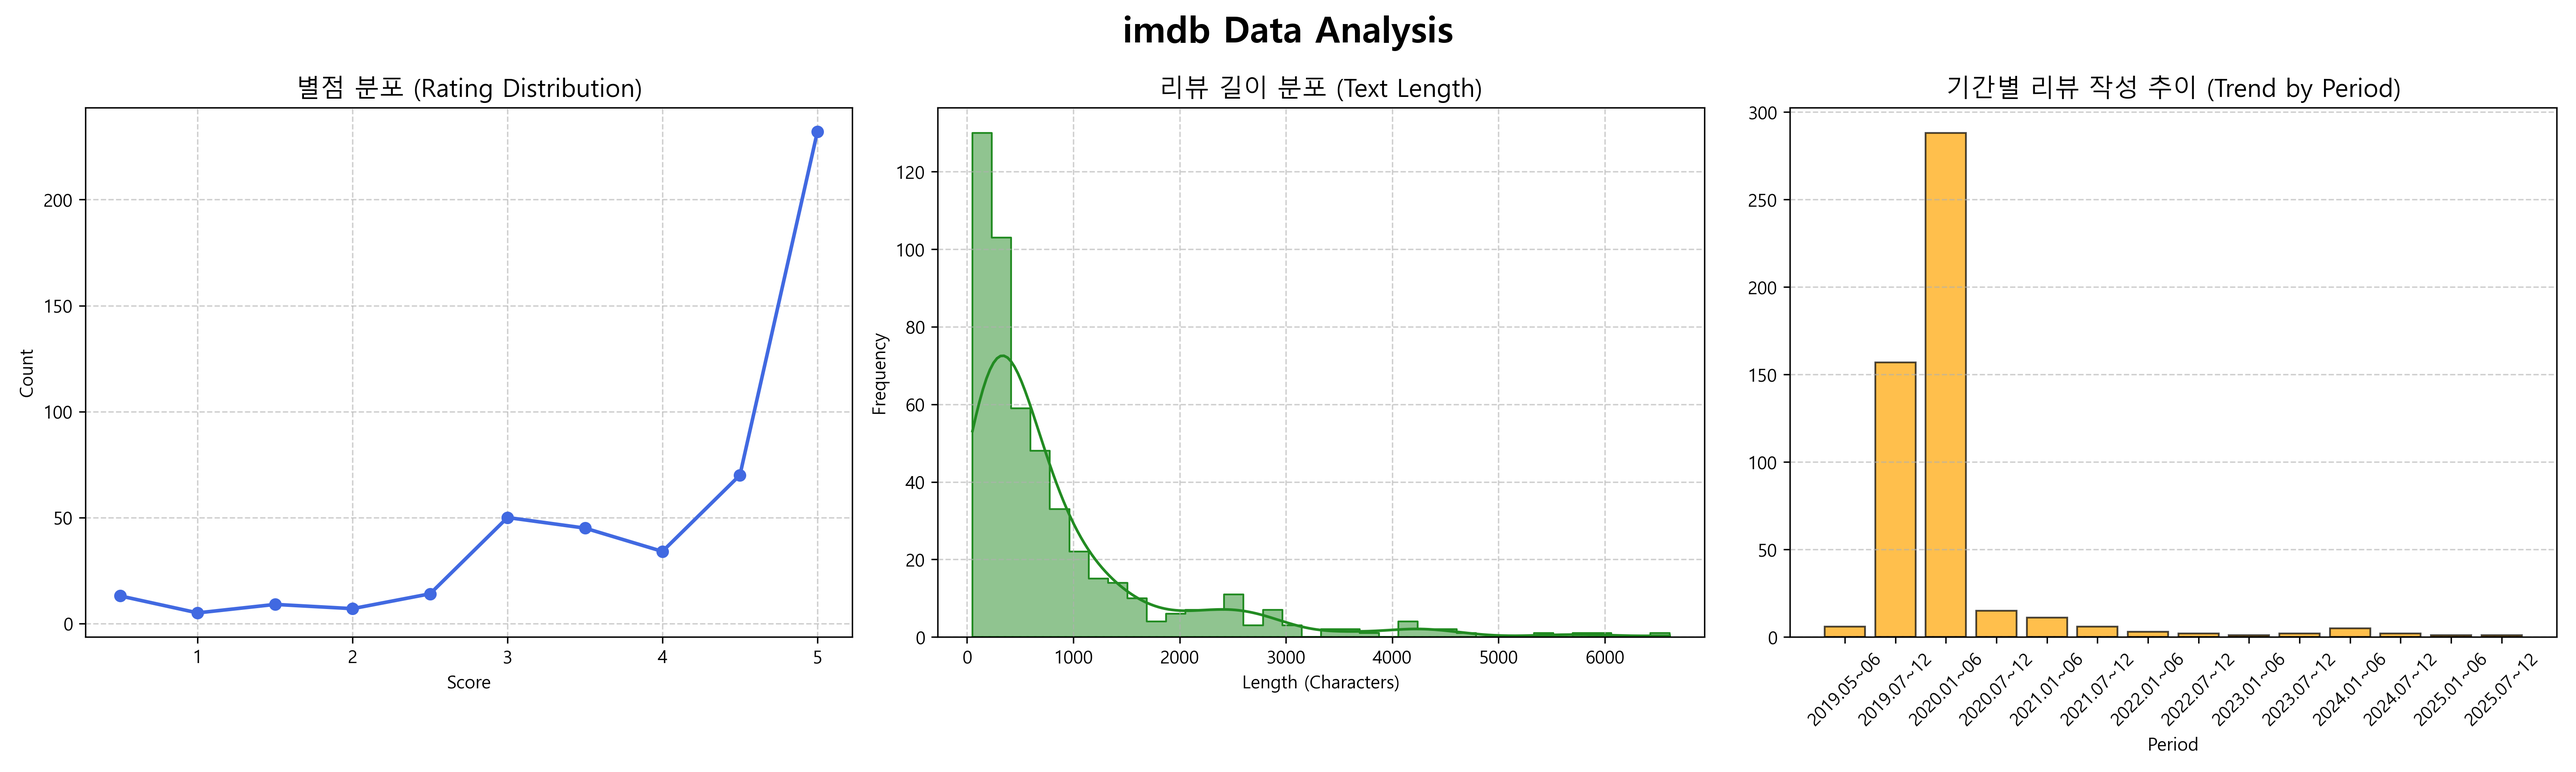
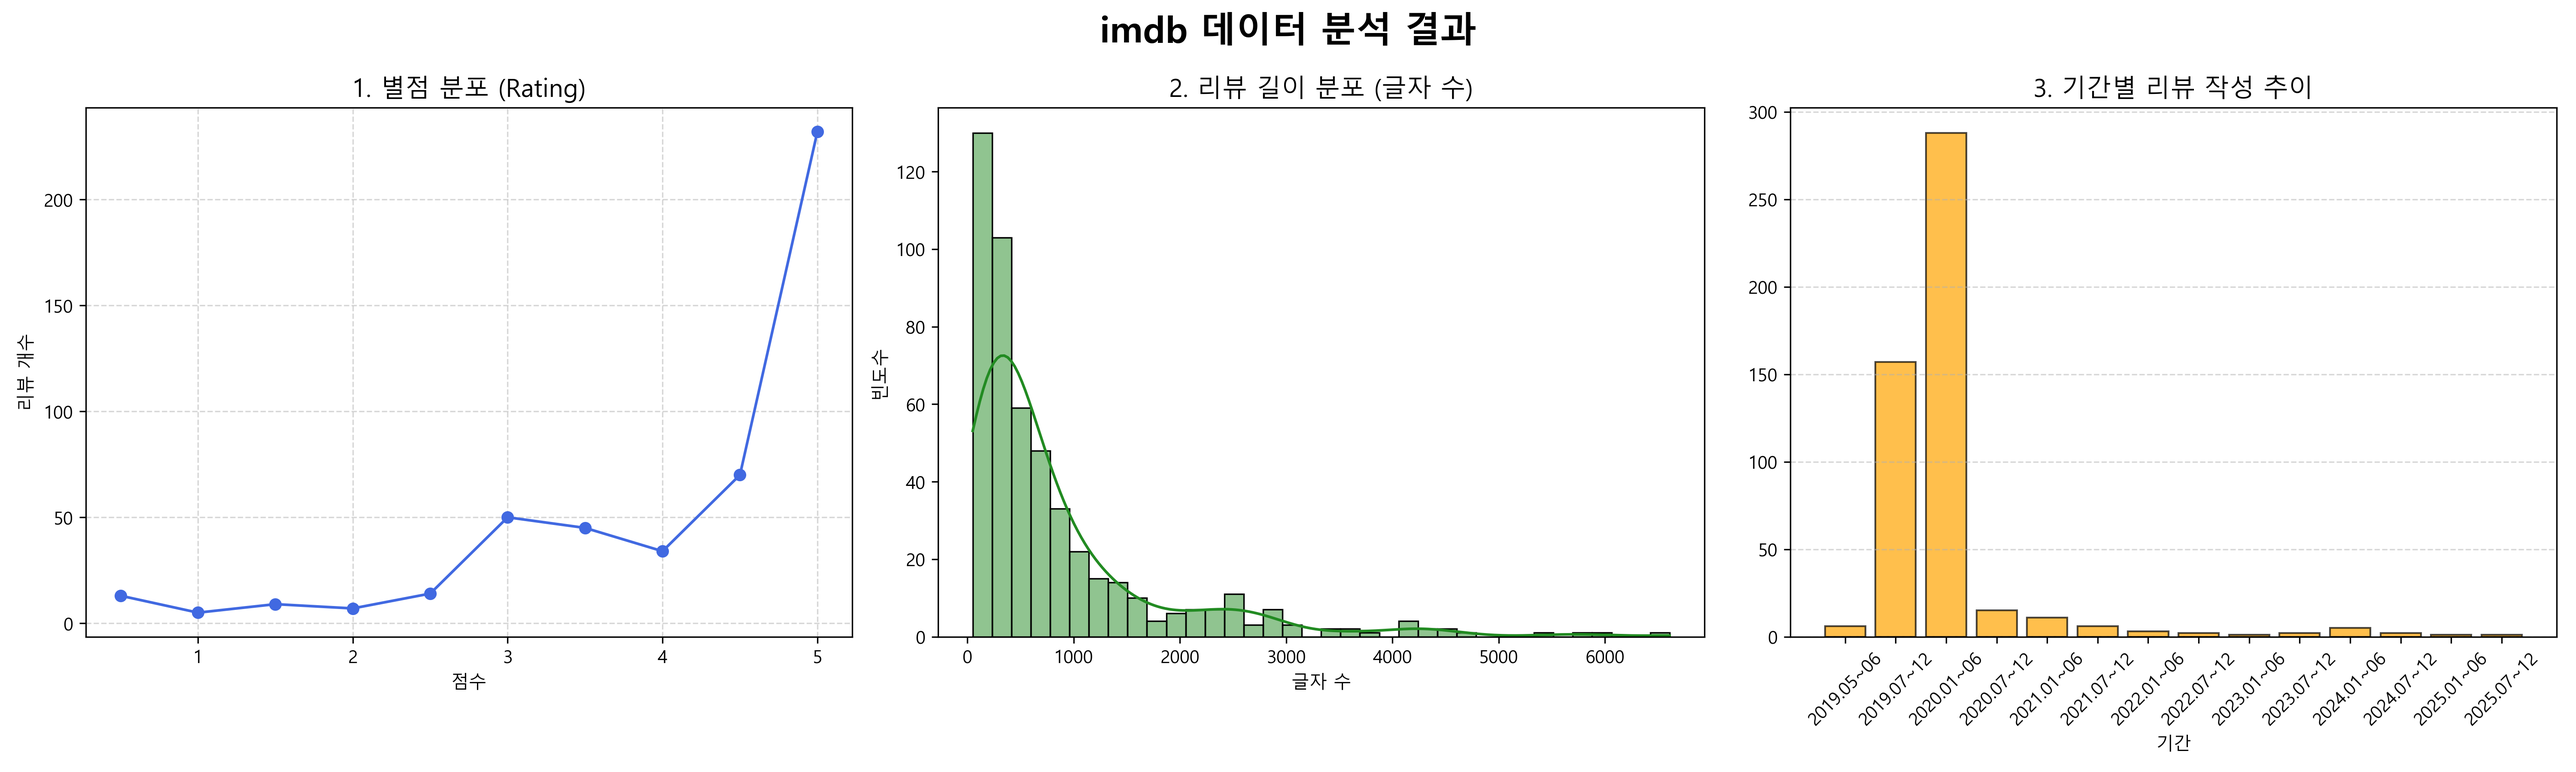
viz_comparison file added

diff --git a/review_analysis/preprocessing/visualizer.py b/review_analysis/preprocessing/visualizer.py
@@ -3,169 +3,182 @@ import matplotlib.pyplot as plt
 import seaborn as sns
 import os
 import numpy as np
-
-# 한글 폰트 설정 (Mac: AppleGothic, Windows: Malgun Gothic)
 import platform
-if platform.system() == 'Darwin':
+
+# -----------------------------
+# 한글 폰트 설정
+# -----------------------------
+if platform.system() == 'Darwin': # 맥
     plt.rc('font', family='AppleGothic')
-else:
+else: # 윈도우
     plt.rc('font', family='Malgun Gothic')
 plt.rcParams['axes.unicode_minus'] = False
 
 def get_period(date_obj):
-    """
-    기간 분류 로직:
-    - 2019.05~06 (개봉 초기)
-    - 그 외에는 상반기(01~06) / 하반기(07~12)로 분류
-    """
+    """기간 분류 로직"""
     if pd.isnull(date_obj):
         return "Unknown"
-        
+    
     y = date_obj.year
     m = date_obj.month
     
-    # 영화 개봉일(2019.05.30) 고려
     if y == 2019:
-        if m < 5:
-            return "2019.Pre" # 개봉 전
-        elif 5 <= m <= 6:
-            return "2019.05~06"
-        else:
-            return "2019.07~12"
+        if m < 5: return "2019.Pre"
+        elif 5 <= m <= 6: return "2019.05~06"
+        else: return "2019.07~12"
     else:
-        if m <= 6:
-            return f"{y}.01~06"
-        else:
-            return f"{y}.07~12"
+        if m <= 6: return f"{y}.01~06"
+        else: return f"{y}.07~12"
 
-def create_and_save_plot(df, site_name, output_dir):
-    """데이터프레임을 받아 그래프를 그리고 저장합니다."""
+def create_individual_plot(df, site_name, output_dir):
+    """[개별] 사이트별 시각화 (1x3 레이아웃)"""
     
-    # 캔버스 설정 (1행 3열)
+    # 다시 1행 3열로 변경
     fig, axes = plt.subplots(1, 3, figsize=(20, 6))
-    fig.suptitle(f'{site_name} Data Analysis', fontsize=20, fontweight='bold')
+    fig.suptitle(f'{site_name} 데이터 분석 결과', fontsize=20, fontweight='bold')
 
-    # -----------------------------
-    # 1. 별점 분포 (꺾은선 그래프)
-    # -----------------------------
+    # 1. 별점 분포 (Line)
     try:
-        # 별점 빈도수 계산 및 정렬
         rating_counts = df['rating'].value_counts().sort_index()
-        
-        # 꺾은선 그래프
-        axes[0].plot(rating_counts.index, rating_counts.values, 
-                    marker='o', linestyle='-', color='royalblue', linewidth=2)
-        
-        # 디자인
-        axes[0].set_title('별점 분포 (Rating Distribution)', fontsize=14)
-        axes[0].set_xlabel('Score')
-        axes[0].set_ylabel('Count')
-        axes[0].grid(True, linestyle='--', alpha=0.6)
-    except Exception as e:
-        print(f"[{site_name}] 별점 그래프 에러: {e}")
+        axes[0].plot(rating_counts.index, rating_counts.values, marker='o', linestyle='-', color='royalblue')
+        axes[0].set_title('1. 별점 분포 (Rating)', fontsize=14)
+        axes[0].set_xlabel('점수')
+        axes[0].set_ylabel('리뷰 개수')
+        axes[0].grid(True, linestyle='--', alpha=0.5)
+    except: axes[0].set_title('별점 데이터 없음')
 
-    # -----------------------------
-    # 2. 리뷰 길이 분포 (히스토그램 + KDE)
-    # -----------------------------
+    # 2. 리뷰 길이 분포 (Histogram + KDE)
     try:
-        # 리뷰 길이 계산 (공백 포함)
         doc_lens = df['content'].astype(str).apply(len)
-        
-        # 히스토그램 & KDE
-        sns.histplot(doc_lens, kde=True, ax=axes[1], color='forestgreen', element="step")
-        
-        # 디자인
-        axes[1].set_title('리뷰 길이 분포 (Text Length)', fontsize=14)
-        axes[1].set_xlabel('Length (Characters)')
-        axes[1].set_ylabel('Frequency')
-        axes[1].grid(True, linestyle='--', alpha=0.6)
-    except Exception as e:
-        print(f"[{site_name}] 길이 그래프 에러: {e}")
+        sns.histplot(doc_lens, kde=True, ax=axes[1], color='forestgreen')
+        axes[1].set_title('2. 리뷰 길이 분포 (글자 수)', fontsize=14)
+        axes[1].set_xlabel('글자 수')
+        axes[1].set_ylabel('빈도수')
+    except: axes[1].set_title('길이 데이터 없음')
 
-    # -----------------------------
-    # 3. 날짜별 리뷰 수 (기간별 막대 그래프)
-    # -----------------------------
+    # 3. 기간별 추이 (Bar)
     try:
-        # 날짜 변환 (에러 발생 시 NaT 처리)
-        # 여러 포맷 대응을 위해 errors='coerce' 사용
         if not np.issubdtype(df['date'].dtype, np.datetime64):
             df['date'] = pd.to_datetime(df['date'], format='%Y.%m.%d', errors='coerce')
-        
-        # 기간(Period) 파생변수 생성
         df['period'] = df['date'].apply(get_period)
-        
-        # 기간별 개수 집계 및 정렬
-        # Unknown이나 Pre 기간은 제외하고 싶으면 여기서 필터링 가능
-        period_counts = df['period'].value_counts()
-        
-        # 정렬: 문자열 기준 정렬 (2019... -> 2020... 순서)
-        sorted_periods = sorted(period_counts.index)
-        sorted_counts = [period_counts[p] for p in sorted_periods]
-        
-        # 막대 그래프
-        rects = axes[2].bar(sorted_periods, sorted_counts, color='orange', edgecolor='black', alpha=0.7)
-        
-        # 디자인
-        axes[2].set_title('기간별 리뷰 작성 추이 (Trend by Period)', fontsize=14)
-        axes[2].set_xlabel('Period')
-        axes[2].tick_params(axis='x', rotation=45) # X축 라벨 회전
-        axes[2].grid(axis='y', linestyle='--', alpha=0.6)
-        
-    except Exception as e:
-        print(f"[{site_name}] 날짜 그래프 에러: {e}")
+        period_counts = df['period'].value_counts().sort_index()
+        axes[2].bar(period_counts.index, period_counts.values, color='orange', alpha=0.7, edgecolor='black')
+        axes[2].set_title('3. 기간별 리뷰 작성 추이', fontsize=14)
+        axes[2].set_xlabel('기간')
+        axes[2].tick_params(axis='x', rotation=45)
+        axes[2].grid(axis='y', linestyle='--', alpha=0.5)
+    except: axes[2].set_title('기간 데이터 없음')
 
-    # -----------------------------
-    # 저장
-    # -----------------------------
     plt.tight_layout()
+    if not os.path.exists(output_dir): os.makedirs(output_dir)
+    plt.savefig(os.path.join(output_dir, f"viz_{site_name}.png"), dpi=300)
+    plt.close()
+
+def create_comparison_plot(data_dict, output_dir):
+    """[통합] 3개 사이트 비교 시각화 (1x3 레이아웃)"""
+    print("\n비교 분석 그래프 생성 중... (Generating comparison plot)")
     
-    # plots 폴더가 없으면 생성
-    if not os.path.exists(output_dir):
-        os.makedirs(output_dir)
-        
-    save_path = os.path.join(output_dir, f"viz_{site_name}.png")
-    plt.savefig(save_path, dpi=300) # 고화질 저장
-    print(f"Saved plot to: {save_path}")
+    # 다시 1행 3열로 변경
+    fig, axes = plt.subplots(1, 3, figsize=(20, 6))
+    fig.suptitle('사이트별 비교 분석 (IMDb vs Metacritic vs RottenTomatoes)', fontsize=20, fontweight='bold')
     
-    plt.close() # 메모리 해제
+    colors = {'imdb': 'red', 'metacritic': 'blue', 'rottentomato': 'green'}
+    
+    # 1. 별점 분포 비교 (KDE)
+    axes[0].set_title('1. 별점 분포 비교 (밀도)', fontsize=14)
+    for site, df in data_dict.items():
+        try:
+            sns.kdeplot(data=df, x='rating', label=site, ax=axes[0], 
+                        color=colors.get(site, 'black'), linewidth=2, fill=True, alpha=0.1)
+        except: pass
+    axes[0].set_xlabel('점수')
+    axes[0].legend()
+    axes[0].grid(True, linestyle='--', alpha=0.5)
+
+    # 2. 리뷰 길이 분포 비교 (KDE)
+    axes[1].set_title('2. 리뷰 길이 분포 비교 (밀도)', fontsize=14)
+    for site, df in data_dict.items():
+        try:
+            doc_lens = df['content'].astype(str).apply(len)
+            sns.kdeplot(x=doc_lens, label=site, ax=axes[1], 
+                        color=colors.get(site, 'black'), linewidth=2)
+        except: pass
+    axes[1].set_xlabel('글자 수')
+    axes[1].set_xlim(0, 3000)
+    axes[1].legend()
+    axes[1].grid(True, linestyle='--', alpha=0.5)
+
+    # 3. 기간별 추이 비교 (Line)
+    axes[2].set_title('3. 기간별 추이 비교', fontsize=14)
+    all_periods = set()
+    period_data = {}
+
+    for site, df in data_dict.items():
+        try:
+            if not np.issubdtype(df['date'].dtype, np.datetime64):
+                df['date'] = pd.to_datetime(df['date'], format='%Y.%m.%d', errors='coerce')
+            df['period'] = df['date'].apply(get_period)
+            counts = df['period'].value_counts()
+            period_data[site] = counts
+            all_periods.update(counts.index)
+        except: continue
+    
+    sorted_periods = sorted(list(all_periods))
+    for site, counts in period_data.items():
+        y_values = [counts.get(p, 0) for p in sorted_periods]
+        axes[2].plot(sorted_periods, y_values, marker='o', label=site, 
+                     color=colors.get(site, 'black'), linewidth=2)
+
+    axes[2].set_xlabel('기간')
+    axes[2].tick_params(axis='x', rotation=45)
+    axes[2].legend()
+    axes[2].grid(True, linestyle='--', alpha=0.5)
+
+    plt.tight_layout()
+    if not os.path.exists(output_dir): os.makedirs(output_dir)
+    plt.savefig(os.path.join(output_dir, "viz_comparison.png"), dpi=300)
+    print(f"비교 그래프 저장 완료: {os.path.join(output_dir, 'viz_comparison.png')}")
+    plt.close()
 
 def main():
-    # 경로 설정 (preprocessing 폴더 기준)
-    base_dir = os.path.dirname(os.path.abspath(__file__)) # 현재 파일 위치
-    db_dir = os.path.join(base_dir, "..", "..", "database") # database 폴더
-    plots_dir = os.path.join(base_dir, "..", "plots") # plots 폴더
+    base_dir = os.path.dirname(os.path.abspath(__file__))
+    db_dir = os.path.join(base_dir, "..", "..", "database")
+    plots_dir = os.path.join(base_dir, "..", "plots")
 
-    # 대상 사이트 파일명 리스트
     target_files = [
         "reviews_imdb.csv",
         "reviews_metacritic.csv",
         "reviews_rottentomatoes.csv"
     ]
 
-    print("=== 시각화 시작 (Visualization Start) ===")
+    all_data = {} 
+
+    print("=== 시각화 시작 ===")
     
     for filename in target_files:
         file_path = os.path.join(db_dir, filename)
         
-        # 파일 존재 여부 확인
         if os.path.exists(file_path):
-            print(f"\nProcessing: {filename}...")
+            print(f"\n처리 중: {filename}...")
             try:
-                # 데이터 로드
                 df = pd.read_csv(file_path)
-                
-                # 사이트 이름 추출 (reviews_imdb.csv -> imdb)
                 site_name = filename.replace("reviews_", "").replace(".csv", "")
                 
-                # 시각화 및 저장 함수 호출
-                create_and_save_plot(df, site_name, plots_dir)
+                # 1. 개별 그래프
+                create_individual_plot(df, site_name, plots_dir)
+                print(f"{site_name} 개별 그래프 저장 완료")
+                
+                all_data[site_name] = df
                 
             except Exception as e:
-                print(f"Error processing {filename}: {e}")
+                print(f"{filename} 처리 중 오류 발생: {e}")
         else:
-            print(f"\nFile not found: {filename} (Skipping)")
+            print(f"\n파일을 찾을 수 없음: {filename} (건너뜀)")
 
-    print("\n=== 모든 시각화 완료 (All Done) ===")
+    if len(all_data) > 0:
+        create_comparison_plot(all_data, plots_dir)
+
+    print("\n=== 모든 시각화 완료 ===")
 
 if __name__ == "__main__":
     main()
